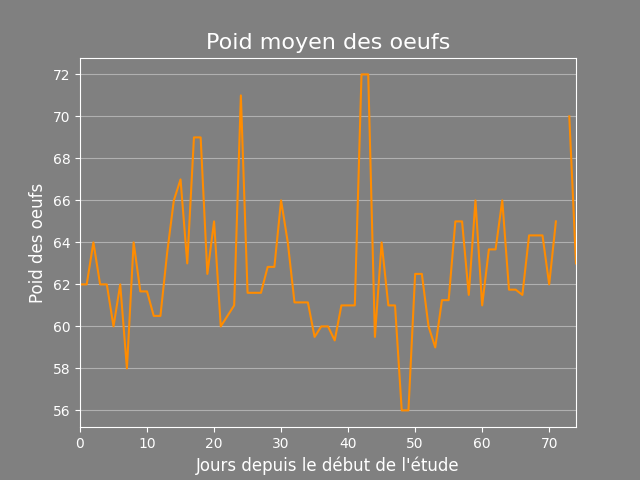
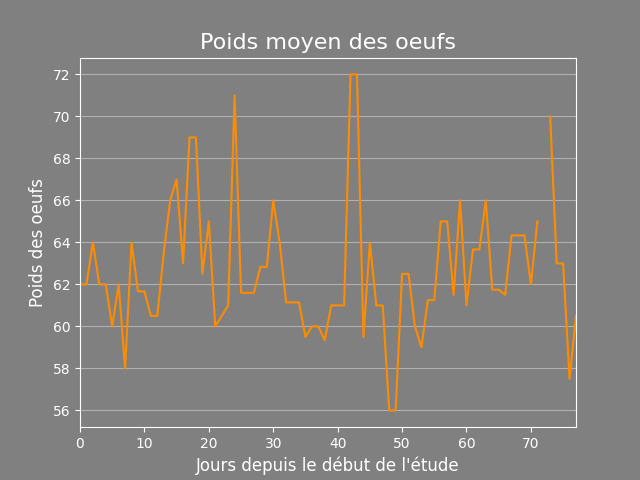
Ajout du filtrage des données, réalisation des derniers graphes

diff --git a/main_file.py b/main_file.py
@@ -112,7 +112,6 @@ Daily_weight				= np.array(Daily_weight)
 Daily_nb_eggs				= np.array(Daily_nb_eggs)
 Daily_nb_hen				= np.array(Daily_nb_hen)
 
-#print(Daily_nb_hen)
 # Number of eggs per hen
 Daily_egg_per_hen		 	= Daily_nb_eggs/Daily_nb_hen
 
@@ -151,9 +150,9 @@ Weight_of_eggs					= Daily_weight/Daily_nb_eggs
 # saving the result
 plt.figure(facecolor='grey') # defining background color
 plt.plot(Weight_of_eggs,color="darkorange")
-plt.title(label="Poid moyen des oeufs",color='w',fontsize=16)
+plt.title(label="Poids moyen des oeufs",color='w',fontsize=16)
 plt.xlabel("Jours depuis le début de l'étude",color='w',fontsize=12)
-plt.ylabel("Poid des oeufs",color='w',fontsize=12)
+plt.ylabel("Poids des oeufs",color='w',fontsize=12)
 plt.xlim(0,Total_duration-1)
 
 # Making a better figure
@@ -162,4 +161,46 @@ Mygraph_func.make_better_graph()
 plt.savefig('./results/Average_daily_weight.png')
 
 # We add an average filter so as to have better results
-#TODO
+
+# We make the same graphs with a 7 days filtering
+
+# Number of eggs per day and per hen
+plt.figure(facecolor='grey') # defining background color
+plt.plot(Array_func.Average_filter(Daily_egg_per_hen,7),color="darkorange")
+plt.title(label="Nombre d'oeufs par jour et par poule (filtré)",color='w')
+plt.xlabel("Jours depuis le début de l'étude",color='w',fontsize=12)
+plt.ylabel("Nombre d'oeufs par poule",color='w',fontsize=12)
+plt.xlim(0,Total_duration-1)
+# Making a better figure
+Mygraph_func.make_better_graph()
+
+plt.savefig('./results/Eggs_per_hen_filtered.png') 
+
+# We now show the number of eggs and compare it with the maximum number of eggs (Number of hen)
+
+# saving the result
+plt.figure(facecolor='grey') # defining background color
+plt.plot(Daily_nb_hen,color="g", label="Maximum") # Maximum number of eggs
+plt.plot(Array_func.Average_filter(Daily_nb_eggs,7),color="darkorange",label="Nombre d'oeufs")
+plt.title(label="Nombre d'oeufs (filtré)",color='w',fontsize=16)
+plt.xlabel("Jours depuis le début de l'étude",color='w',fontsize=12)
+plt.ylabel("Nombre d'oeufs",color='w',fontsize=12)
+plt.xlim(0,Total_duration-1)
+plt.legend()
+# Making a better figure
+Mygraph_func.make_better_graph()
+
+plt.savefig('./results/Eggs_per_day_filtered.png') 
+
+# saving the result
+plt.figure(facecolor='grey') # defining background color
+plt.plot(Array_func.Average_filter(Weight_of_eggs,7),color="darkorange")
+plt.title(label="Poids moyen des oeufs (filtré)",color='w',fontsize=16)
+plt.xlabel("Jours depuis le début de l'étude",color='w',fontsize=12)
+plt.ylabel("Poids des oeufs",color='w',fontsize=12)
+plt.xlim(0,Total_duration-1)
+
+# Making a better figure
+Mygraph_func.make_better_graph()
+
+plt.savefig('./results/Average_daily_weight_filtered.png')

diff --git a/library/Array_func.py b/library/Array_func.py
@@ -2,6 +2,7 @@
 
 # Necessary packages
 from datetime import datetime, timedelta
+import math
 
 # This function changes the first column (date) into a datetime format
 # As a parameter we have the double dimensional list which contains 
@@ -127,3 +128,33 @@ def to_daily_stats(Mycsv):
 		Myresult.append([Listofdate[i], Total_weight_per_day[i],Nb_eggs_per_day[i], Nb_chicken_per_day[i]])
 	
 	return Myresult
+	
+# This function filters the data with a very basic average filter
+# Data is a one dimensional array of integers
+def Average_filter(Data, filter_length):
+	
+	# The data in the filter
+	Data_in_filter					= [0]*filter_length
+	Nb_data_in_filter				= 0
+	Myoutput					= [0]*len(Data)
+	
+	# We loop over the input data 
+	for i in range(len(Data)):
+		# We do not consider NaN data
+		if math.isnan(Data[i]):
+			Myoutput[i]			= math.nan
+		else:
+			if Nb_data_in_filter<filter_length:
+				Data_in_filter[Nb_data_in_filter]		= Data[i]
+				Nb_data_in_filter				= Nb_data_in_filter+1
+				Myoutput[i]					= sum(Data_in_filter)/Nb_data_in_filter
+			else:
+				# We shift data in the shift register
+				for j in range(filter_length-1):
+					Data_in_filter[j]			= Data_in_filter[j+1]
+				Data_in_filter[filter_length-1]		= Data[i]
+				Myoutput[i]					= sum(Data_in_filter)/Nb_data_in_filter
+
+	# Returning the result
+	return Myoutput
+
